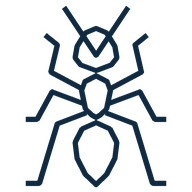
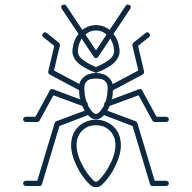
brand: smoothed ant mark, small sizes are the same ant, Montserrat lockup
Owner 28.09: smooth the body; small icons must be the big ant scaled down.

diff --git a/ui/public/brand/myrmidon/README.md b/ui/public/brand/myrmidon/README.md
@@ -1,17 +1,17 @@
 # Бренд Myrmidon
 
-Логотип владельца (28.09.2026): муравей линией + надпись MYRMIDON, цвет `#0F2940`.
+Логотип владельца (28.09.2026): муравей линией, цвет `#0F2940`; надпись MYRMIDON — Montserrat Bold (OFL).
 
 | Файл | Где |
 |---|---|
-| `myrmidon-mark.svg` | значок: шапка, экран входа, значки от 64 px |
-| `myrmidon-mark-small.svg` | тот же значок с утолщённой линией для 24–48 px |
-| `favicon-16x16.png` | отрисован по пикселям (перетяжки сегментов), не уменьшение |
-| `favicon-32x32.png`, `favicon.ico` (16/32/48) | вкладка браузера |
+| `myrmidon-mark.svg` | значок (линия 17): шапка, экран входа, значки от 64 px |
+| `myrmidon-mark-small.svg` | тот же муравей, линия 30: 24–48 px |
+| `myrmidon-mark-tiny.svg` | тот же муравей, линия 40: 16 px |
+| `favicon-16x16.png`, `favicon-32x32.png`, `favicon.ico` (16/32/48) | вкладка браузера — уменьшенный тот же муравей |
 | `apple-touch-icon.png` (180), `android-chrome-192x192.png`, `android-chrome-512x512.png` | значки приложения |
-| `myrmidon-logo-lockup.png` | полный логотип (значок + надпись) для документов и README |
-| `source-owner.webp` | исходник владельца (растр, есть артефакт у правого усика — не использовать напрямую) |
+| `myrmidon-logo-lockup.png` | полный логотип: муравей + MYRMIDON (Montserrat Bold) |
+| `source-owner.webp` | исходник владельца (растр, артефакт у правого усика — не использовать напрямую) |
 
-Значок перерисован в вектор по исходнику; надпись в `myrmidon-logo-lockup.png` взята из исходника
-(шрифт не определён — для вектора надписи нужен шрифт или отрисовка). Замена значков и имени в
-интерфейсе — задача B1 (ROADMAP, 1.1.0).
+Все размеры — один рисунок (сегменты тела — кривые, сверены наложением с исходником); для
+малых размеров только утолщена линия. PNG отрисованы из SVG браузером. Замена значков и имени
+в интерфейсе — задача B1 (ROADMAP, 1.1.0).
